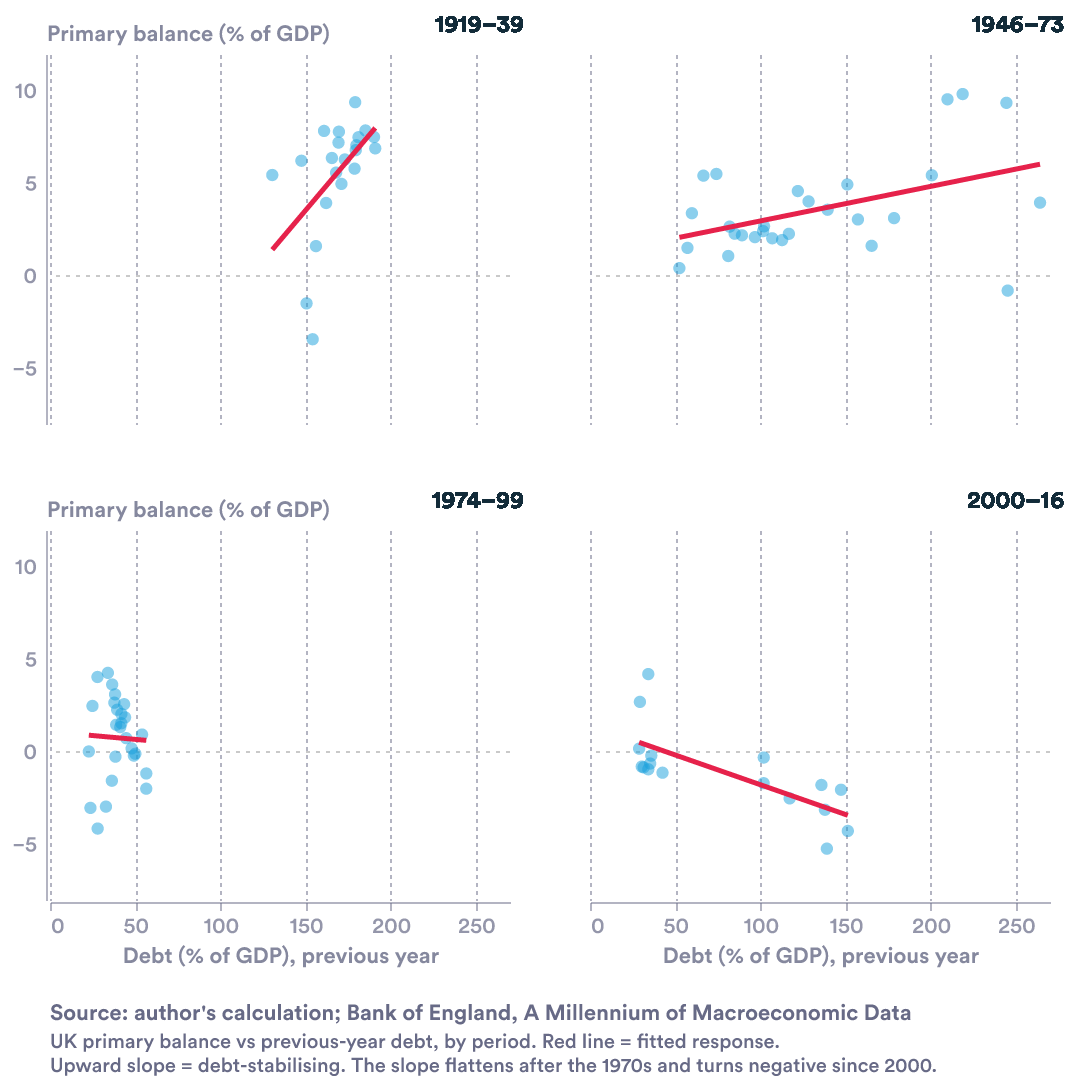
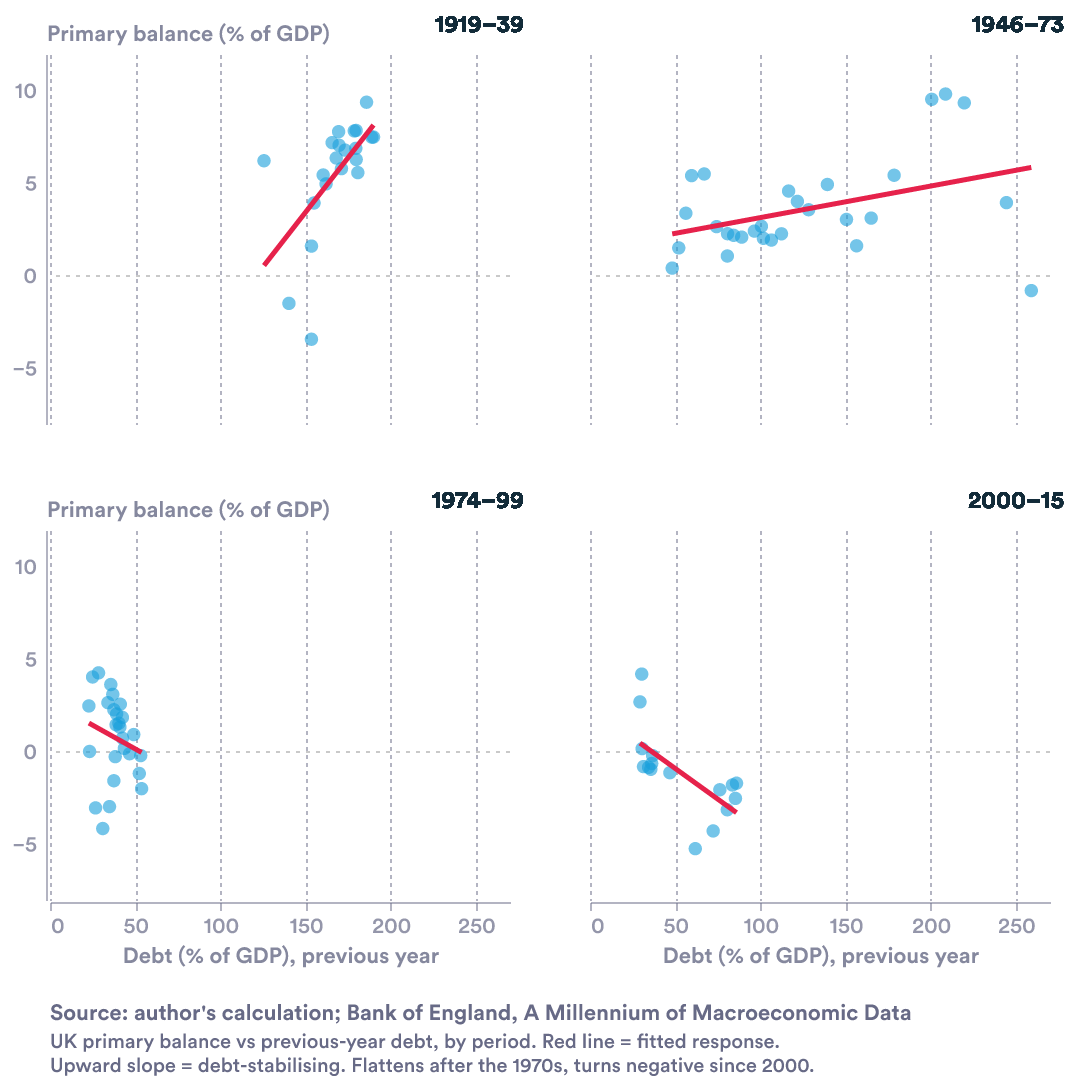
fixes

diff --git a/Debt 2026/Research/Charts/Charts/fiscal_reaction_scatter.html b/Debt 2026/Research/Charts/Charts/fiscal_reaction_scatter.html
@@ -1,0 +1,42 @@
+<!DOCTYPE html>
+<html>
+<head>
+  <meta charset="UTF-8">
+  <style>
+    #vis.vega-embed {
+      width: 100%;
+      display: flex;
+    }
+
+    #vis.vega-embed details,
+    #vis.vega-embed details summary {
+      position: relative;
+    }
+  </style>
+  <script type="text/javascript" src="https://cdn.jsdelivr.net/npm/vega@6"></script>
+  <script type="text/javascript" src="https://cdn.jsdelivr.net/npm/vega-lite@6.4.1"></script>
+  <script type="text/javascript" src="https://cdn.jsdelivr.net/npm/vega-embed@7"></script>
+</head>
+<body>
+  <div id="vis"></div>
+  <script>
+    (function(vegaEmbed) {
+      var spec = {"config": {"font": "Circular Std", "text": {"color": "#676A86", "align": "left", "baseline": "middle", "dx": 7, "dy": 0, "fontSize": 11}, "view": {"stroke": "transparent", "continuousWidth": 400, "continuousHeight": 300, "discreteWidth": 400, "discreteHeight": 300, "fill": "transparent"}, "range": {"category": ["#36B7B4", "#E6224B", "#F4C245", "#0063AF", "#00A767", "#179FDB", "#EB5C2E"], "diverging": ["#E6224B", "#E54753", "#C9C9C9", "#179FDB", "#122B39"], "heatmap": ["#C9C9C9", "#179FDB", "#0063AF", "#122B39"], "ordinal": ["#00A767", "#36B7B4", "#179FDB", "#0063AF", "#243B5A"]}, "bar": {"color": "#179fdb"}, "line": {"color": "#e6224b"}, "rule": {"color": "#676A86"}, "area": {"opacity": 0.3}, "point": {"filled": true, "size": 80, "color": "#e6224b", "opacity": 0.95}, "geoshape": {"stroke": "white", "strokeWidth": 0.3}, "rect": {"fill": "#d6d4d4", "opacity": 0.3}, "axis": {"labelColor": "#676A86", "labelFontSize": 11, "labelFont": "Circular Std", "labelOpacity": 0.7, "tickColor": "#676A86", "tickOpacity": 0.5, "domainColor": "#676A86", "domainOpacity": 0.5, "gridColor": "#676A86", "gridDash": [2, 2], "gridOpacity": 0.5, "title": null, "titleColor": "#676A86", "titleOpacity": 0.8, "tickSize": 4}, "axisXDiscrete": {"grid": false, "labelAngle": 0, "tickCount": 10, "tickOpacity": 0.5, "title": null}, "axisYDiscrete": {"ticks": false, "labelPadding": 5}, "axisXTemporal": {"grid": false, "ticks": true}, "axisXQuantitative": {"grid": true}, "axisYQuantitative": {"gridColor": "#676A86", "gridDash": [1, 5], "gridOpacity": 0.5, "ticks": false, "labelPadding": 5, "tickCount": 8, "titleAngle": 0, "titleAlign": "left", "titleBaseline": "bottom", "titleX": 0, "titleY": -5}, "title": {"color": "#676A86E6", "subtitleColor": "#676A86", "font": "Circular Std", "subtitleFont": "Circular Std", "anchor": "start", "fontSize": 14, "subtitleFontSize": 12, "subtitlePadding": 4, "offset": 0, "frame": "group"}, "legend": {"titleColor": "#122b39", "title": null, "labelColor": "#122b39", "labelFontSize": 11}, "axisY": {"titleAlign": "left", "titleAngle": 0, "titleX": 0, "titleY": -8}, "background": "white", "header": {"labelFontSize": 0, "labelPadding": 0, "title": null}}, "data": {"name": "data-59675f8f8544f754f55803a47b0bdc05"}, "facet": {"field": "era", "sort": ["1919\u201339", "1946\u201373", "1974\u201399", "2000\u201315"], "title": null, "type": "nominal"}, "spec": {"layer": [{"mark": {"type": "rule", "color": "#c9c9c9", "strokeDash": [2, 3]}, "encoding": {"y": {"datum": 0}}}, {"mark": {"type": "point", "color": "#179FDB", "filled": true, "opacity": 0.6, "size": 45}, "encoding": {"tooltip": [{"field": "year", "title": "Year", "type": "ordinal"}, {"field": "debt_lag", "format": ".1f", "title": "Debt (prev yr, % GDP)", "type": "quantitative"}, {"field": "pb", "format": ".1f", "title": "Primary balance (% GDP)", "type": "quantitative"}], "x": {"axis": {"grid": true, "tickCount": 5}, "field": "debt_lag", "scale": {"domain": [0, 270]}, "title": "Debt (% of GDP), previous year", "type": "quantitative"}, "y": {"axis": {"grid": false, "tickCount": 5}, "field": "pb", "scale": {"domain": [-8, 11]}, "title": "Primary balance (% of GDP)", "type": "quantitative"}}}, {"mark": {"type": "line", "color": "#E6224B", "strokeWidth": 2.5}, "encoding": {"x": {"axis": {"grid": true, "tickCount": 5}, "field": "debt_lag", "scale": {"domain": [0, 270]}, "title": "Debt (% of GDP), previous year", "type": "quantitative"}, "y": {"axis": {"grid": false, "tickCount": 5}, "field": "pb", "scale": {"domain": [-8, 11]}, "title": "Primary balance (% of GDP)", "type": "quantitative"}}, "transform": [{"on": "debt_lag", "regression": "pb"}]}, {"mark": {"type": "text", "align": "right", "baseline": "bottom", "color": "#122b39", "fontSize": 12, "fontWeight": "bold"}, "encoding": {"text": {"field": "era", "type": "nominal"}, "x": {"value": 230}, "y": {"value": -8}}}], "height": 185, "width": 230}, "columns": 2, "resolve": {"scale": {"x": "shared", "y": "shared"}}, "spacing": {"row": 30, "column": 30}, "title": {"text": "Source: author's calculation; Bank of England, A Millennium of Macroeconomic Data", "anchor": "start", "color": "#676A86", "dy": 14, "fontSize": 11, "orient": "bottom", "subtitle": ["UK primary balance vs previous-year debt, by period. Red line = fitted response.", "Upward slope = debt-stabilising. Flattens after the 1970s, turns negative since 2000."], "subtitleColor": "#676A86", "subtitleFontSize": 10}, "$schema": "https://vega.github.io/schema/vega-lite/v6.4.1.json", "datasets": {"data-59675f8f8544f754f55803a47b0bdc05": [{"year": 1919, "psurp": -79, "gdp": 5337.207075056073, "debt": 125.60502356555172, "pb": -1.480174909630427, "debt_lag": 140.24769625397343, "war": 0, "era": "1919\u201339"}, {"year": 1920, "psurp": 364, "gdp": 5842.72298267445, "debt": 160.3529395211204, "pb": 6.229971899735396, "debt_lag": 125.60502356555172, "war": 0, "era": "1919\u201339"}, {"year": 1921, "psurp": 262, "gdp": 4799.506652627547, "debt": 178.5996203322544, "pb": 5.458894402335393, "debt_lag": 160.3529395211204, "war": 0, "era": "1919\u201339"}, {"year": 1922, "psurp": 342, "gdp": 4361.473437350434, "debt": 185.7908443287234, "pb": 7.841386744929086, "debt_lag": 178.5996203322544, "war": 0, "era": "1919\u201339"}, {"year": 1923, "psurp": 391, "gdp": 4162.624389776968, "debt": 179.70363713045626, "pb": 9.39311269496861, "debt_lag": 185.7908443287234, "war": 0, "era": "1919\u201339"}, {"year": 1924, "psurp": 336, "gdp": 4271.644204077724, "debt": 173.25849664966302, "pb": 7.865823648871633, "debt_lag": 179.70363713045626, "war": 0, "era": "1919\u201339"}, {"year": 1925, "psurp": 300, "gdp": 4410.6062027376265, "debt": 179.7327445505008, "pb": 6.801786108535206, "debt_lag": 173.25849664966302, "war": 0, "era": "1919\u201339"}, {"year": 1926, "psurp": 268, "gdp": 4255.178998755622, "debt": 169.69727569208013, "pb": 6.298207433303594, "debt_lag": 179.7327445505008, "war": 0, "era": "1919\u201339"}, {"year": 1927, "psurp": 318, "gdp": 4500.028046329088, "debt": 169.400771084607, "pb": 7.066622623816967, "debt_lag": 169.69727569208013, "war": 0, "era": "1919\u201339"}, {"year": 1928, "psurp": 351, "gdp": 4500.230401072076, "debt": 165.60545552732475, "pb": 7.79960065858811, "debt_lag": 169.400771084607, "war": 0, "era": "1919\u201339"}, {"year": 1929, "psurp": 331, "gdp": 4590.65492485881, "debt": 168.00488585607508, "pb": 7.21030017324119, "debt_lag": 165.60545552732475, "war": 0, "era": "1919\u201339"}, {"year": 1930, "psurp": 288, "gdp": 4515.478797740977, "debt": 180.68445906579169, "pb": 6.378061173581013, "debt_lag": 168.00488585607508, "war": 0, "era": "1919\u201339"}, {"year": 1931, "psurp": 236, "gdp": 4223.786062984587, "debt": 188.9074335287239, "pb": 5.5874042027886, "debt_lag": 180.68445906579169, "war": 0, "era": "1919\u201339"}, {"year": 1932, "psurp": 310, "gdp": 4132.59280176127, "debt": 189.8929181741884, "pb": 7.501343947264321, "debt_lag": 188.9074335287239, "war": 0, "era": "1919\u201339"}, {"year": 1933, "psurp": 316, "gdp": 4206.436488944193, "debt": 179.48680444965146, "pb": 7.512296948510813, "debt_lag": 189.8929181741884, "war": 0, "era": "1919\u201339"}, {"year": 1934, "psurp": 305, "gdp": 4420.603522542355, "debt": 171.07480516666402, "pb": 6.899510404963663, "debt_lag": 179.48680444965146, "war": 0, "era": "1919\u201339"}, {"year": 1935, "psurp": 268, "gdp": 4618.915095242652, "debt": 162.02646179309474, "pb": 5.802228325782222, "debt_lag": 171.07480516666402, "war": 0, "era": "1919\u201339"}, {"year": 1936, "psurp": 243, "gdp": 4880.576241983343, "debt": 154.96659292250422, "pb": 4.978920273997215, "debt_lag": 162.02646179309474, "war": 0, "era": "1919\u201339"}, {"year": 1937, "psurp": 206, "gdp": 5219.979898535463, "debt": 153.48454437573693, "pb": 3.946375350177041, "debt_lag": 154.96659292250422, "war": 0, "era": "1919\u201339"}, {"year": 1938, "psurp": 87, "gdp": 5383.652818991096, "debt": 153.4612496197333, "pb": 1.616003165975029, "debt_lag": 153.48454437573693, "war": 0, "era": "1919\u201339"}, {"year": 1939, "psurp": -198, "gdp": 5791.478319134677, "debt": 155.5567938217336, "pb": -3.4188162173692436, "debt_lag": 153.4612496197333, "war": 1, "era": "1919\u201339"}, {"year": 1946, "psurp": -77, "gdp": 9756.250981142912, "debt": 244.4243472346197, "pb": -0.7892375887913015, "debt_lag": 259.0280328872755, "war": 0, "era": "1946\u201373"}, {"year": 1947, "psurp": 418, "gdp": 10544.029386426726, "debt": 219.68763491926433, "pb": 3.9643288602561104, "debt_lag": 244.4243472346197, "war": 0, "era": "1946\u201373"}, {"year": 1948, "psurp": 1084, "gdp": 11581.0, "debt": 208.68346431175564, "pb": 9.360158880925654, "debt_lag": 219.68763491926433, "war": 0, "era": "1946\u201373"}, {"year": 1949, "psurp": 1214, "gdp": 12343.0, "debt": 200.58939628482972, "pb": 9.835534310945476, "debt_lag": 208.68346431175564, "war": 0, "era": "1946\u201373"}, {"year": 1950, "psurp": 1234, "gdp": 12920.0, "debt": 178.51288944030878, "pb": 9.551083591331269, "debt_lag": 200.58939628482972, "war": 0, "era": "1946\u201373"}, {"year": 1951, "psurp": 790, "gdp": 14508.0, "debt": 165.05488926962371, "pb": 5.445271574303832, "debt_lag": 178.51288944030878, "war": 0, "era": "1946\u201373"}, {"year": 1952, "psurp": 493, "gdp": 15759.0, "debt": 156.4810980299355, "pb": 3.128371089536138, "debt_lag": 165.05488926962371, "war": 0, "era": "1946\u201373"}, {"year": 1953, "psurp": 276, "gdp": 16903.0, "debt": 150.54253350529916, "pb": 1.6328462403123707, "debt_lag": 156.4810980299355, "war": 0, "era": "1946\u201373"}, {"year": 1954, "psurp": 545, "gdp": 17833.0, "debt": 139.32716113059624, "pb": 3.056131890315706, "debt_lag": 150.54253350529916, "war": 0, "era": "1946\u201373"}, {"year": 1955, "psurp": 959, "gdp": 19388.0, "debt": 128.3286623598708, "pb": 4.9463585723127705, "debt_lag": 139.32716113059624, "war": 0, "era": "1946\u201373"}, {"year": 1956, "psurp": 754, "gdp": 21052.0, "debt": 121.73990951037048, "pb": 3.5816074482234463, "debt_lag": 128.3286623598708, "war": 0, "era": "1946\u201373"}, {"year": 1957, "psurp": 900, "gdp": 22323.0, "debt": 116.5785434078117, "pb": 4.0317161671818305, "debt_lag": 121.73990951037048, "war": 0, "era": "1946\u201373"}, {"year": 1958, "psurp": 1077, "gdp": 23452.0, "debt": 112.386673171525, "pb": 4.592358860651544, "debt_lag": 116.5785434078117, "war": 0, "era": "1946\u201373"}, {"year": 1959, "psurp": 561, "gdp": 24597.0, "debt": 106.47527638951992, "pb": 2.280765947066715, "debt_lag": 112.386673171525, "war": 0, "era": "1946\u201373"}, {"year": 1960, "psurp": 513, "gdp": 26412.0, "debt": 101.77954326837435, "pb": 1.9422989550204453, "debt_lag": 106.47527638951992, "war": 0, "era": "1946\u201373"}, {"year": 1961, "psurp": 572, "gdp": 28069.0, "debt": 100.61448900388098, "pb": 2.037835334354626, "debt_lag": 101.77954326837435, "war": 0, "era": "1946\u201373"}, {"year": 1962, "psurp": 789, "gdp": 29374.0, "debt": 96.48563834897053, "pb": 2.686048886770614, "debt_lag": 100.61448900388098, "war": 0, "era": "1946\u201373"}, {"year": 1963, "psurp": 758, "gdp": 31229.0, "debt": 89.04166788759633, "pb": 2.4272310992987287, "debt_lag": 96.48563834897053, "war": 0, "era": "1946\u201373"}, {"year": 1964, "psurp": 717, "gdp": 34127.0, "debt": 84.31149406600552, "pb": 2.1009757669880154, "debt_lag": 89.04166788759633, "war": 0, "era": "1946\u201373"}, {"year": 1965, "psurp": 812, "gdp": 36906.0, "debt": 80.72635263678563, "pb": 2.200184251883163, "debt_lag": 84.31149406600552, "war": 0, "era": "1946\u201373"}, {"year": 1966, "psurp": 901, "gdp": 39423.0, "debt": 80.62212423312883, "pb": 2.2854678740836567, "debt_lag": 80.72635263678563, "war": 0, "era": "1946\u201373"}, {"year": 1967, "psurp": 451, "gdp": 41728.0, "debt": 74.30090156956057, "pb": 1.0808090490797546, "debt_lag": 80.62212423312883, "war": 0, "era": "1946\u201373"}, {"year": 1968, "psurp": 1222, "gdp": 45809.0, "debt": 67.03685439394549, "pb": 2.6675980702482045, "debt_lag": 74.30090156956057, "war": 0, "era": "1946\u201373"}, {"year": 1969, "psurp": 2740, "gdp": 49682.0, "debt": 59.64527147864654, "pb": 5.515075882613421, "debt_lag": 67.03685439394549, "war": 0, "era": "1946\u201373"}, {"year": 1970, "psurp": 3033, "gdp": 55916.0, "debt": 56.2587803320562, "pb": 5.424207740181701, "debt_lag": 59.64527147864654, "war": 0, "era": "1946\u201373"}, {"year": 1971, "psurp": 2125, "gdp": 62640.0, "debt": 52.092667662328424, "pb": 3.3924010217113665, "debt_lag": 56.2587803320562, "war": 0, "era": "1946\u201373"}, {"year": 1972, "psurp": 1068, "gdp": 70305.0, "debt": 48.25880417837897, "pb": 1.5190953701728185, "debt_lag": 52.092667662328424, "war": 0, "era": "1946\u201373"}, {"year": 1973, "psurp": 347, "gdp": 81467.0, "debt": 53.24335606709532, "pb": 0.4259393374004198, "debt_lag": 48.25880417837897, "war": 0, "era": "1946\u201373"}, {"year": 1974, "psurp": -179, "gdp": 92227.0, "debt": 53.76131690835596, "pb": -0.1940863304672167, "debt_lag": 53.24335606709532, "war": 0, "era": "1974\u201399"}, {"year": 1975, "psurp": -2272, "gdp": 114541.0, "debt": 52.40871838557119, "pb": -1.983569202294375, "debt_lag": 53.76131690835596, "war": 0, "era": "1974\u201399"}, {"year": 1976, "psurp": -1581, "gdp": 136172.0, "debt": 49.153892660562015, "pb": -1.1610316364597717, "debt_lag": 52.40871838557119, "war": 0, "era": "1974\u201399"}, {"year": 1977, "psurp": 1497, "gdp": 158786.0, "debt": 46.69724324061204, "pb": 0.9427783305833008, "debt_lag": 49.153892660562015, "war": 0, "era": "1974\u201399"}, {"year": 1978, "psurp": -174, "gdp": 184891.0, "debt": 43.63075528673386, "pb": -0.0941095023554418, "debt_lag": 46.69724324061204, "war": 0, "era": "1974\u201399"}, {"year": 1979, "psurp": 427, "gdp": 219559.0, "debt": 42.53853357635705, "pb": 0.1944807546035462, "debt_lag": 43.63075528673386, "war": 0, "era": "1974\u201399"}, {"year": 1980, "psurp": 1931, "gdp": 258411.0, "debt": 42.50755601875977, "pb": 0.7472592111016946, "debt_lag": 42.53853357635705, "war": 0, "era": "1974\u201399"}, {"year": 1981, "psurp": 5382, "gdp": 287850.0, "debt": 41.272521455771745, "pb": 1.869723814486712, "debt_lag": 42.50755601875977, "war": 0, "era": "1974\u201399"}, {"year": 1982, "psurp": 8181, "gdp": 316698.0, "debt": 40.43823557279568, "pb": 2.583218081579296, "debt_lag": 41.272521455771745, "war": 0, "era": "1974\u201399"}, {"year": 1983, "psurp": 5414, "gdp": 348283.0, "debt": 41.02798410825186, "pb": 1.5544829922792671, "debt_lag": 40.43823557279568, "war": 0, "era": "1974\u201399"}, {"year": 1984, "psurp": 5038, "gdp": 374534.0, "debt": 39.09110210618267, "pb": 1.3451382251010588, "debt_lag": 41.02798410825186, "war": 0, "era": "1974\u201399"}, {"year": 1985, "psurp": 8473, "gdp": 412120.0, "debt": 37.48161735726849, "pb": 2.0559545763369895, "debt_lag": 39.09110210618267, "war": 0, "era": "1974\u201399"}, {"year": 1986, "psurp": 10145, "gdp": 444033.0, "debt": 33.99555451805089, "pb": 2.2847400981458583, "debt_lag": 37.48161735726849, "war": 0, "era": "1974\u201399"}, {"year": 1987, "psurp": 13134, "gdp": 492635.0, "debt": 28.48140958367545, "pb": 2.666071229206207, "debt_lag": 33.99555451805089, "war": 0, "era": "1974\u201399"}, {"year": 1988, "psurp": 23596, "gdp": 551709.0, "debt": 25.00094343647145, "pb": 4.276892347233777, "debt_lag": 28.48140958367545, "war": 0, "era": "1974\u201399"}, {"year": 1989, "psurp": 24714, "gdp": 609474.0, "debt": 22.820660782982575, "pb": 4.054971992242491, "debt_lag": 25.00094343647145, "war": 0, "era": "1974\u201399"}, {"year": 1990, "psurp": 16499, "gdp": 662850.0, "debt": 23.21854254352915, "pb": 2.4891000980614013, "debt_lag": 22.820660782982575, "war": 0, "era": "1974\u201399"}, {"year": 1991, "psurp": 196, "gdp": 698038.0, "debt": 26.73114374623152, "pb": 0.028078700586501, "debt_lag": 23.21854254352915, "war": 0, "era": "1974\u201399"}, {"year": 1992, "psurp": -21802, "gdp": 721445.0, "debt": 30.97126357217729, "pb": -3.0219905883331366, "debt_lag": 26.73114374623152, "war": 0, "era": "1974\u201399"}, {"year": 1993, "psurp": -31378, "gdp": 758445.0, "debt": 34.927134770564855, "pb": -4.137149035197015, "debt_lag": 30.97126357217729, "war": 0, "era": "1974\u201399"}, {"year": 1994, "psurp": -23535, "gdp": 797088.0, "debt": 37.48299758798823, "pb": -2.9526225460676865, "debt_lag": 34.927134770564855, "war": 0, "era": "1974\u201399"}, {"year": 1995, "psurp": -13001, "gdp": 836646.0, "debt": 38.290962033822375, "pb": -1.5539427667137595, "debt_lag": 37.48299758798823, "war": 0, "era": "1974\u201399"}, {"year": 1996, "psurp": -2256, "gdp": 892900.0, "debt": 38.77063018250955, "pb": -0.2526598723261283, "debt_lag": 38.290962033822375, "war": 0, "era": "1974\u201399"}, {"year": 1997, "psurp": 13819, "gdp": 938855.0, "debt": 36.845562823112736, "pb": 1.4718992815717016, "debt_lag": 38.77063018250955, "war": 0, "era": "1974\u201399"}, {"year": 1998, "psurp": 30545, "gdp": 980308.0, "debt": 35.68333488378925, "pb": 3.1158574652048134, "debt_lag": 36.845562823112736, "war": 0, "era": "1974\u201399"}, {"year": 1999, "psurp": 37248, "gdp": 1021205.0, "debt": 30.364625304039457, "pb": 3.647455701842432, "debt_lag": 35.68333488378925, "war": 0, "era": "1974\u201399"}, {"year": 2000, "psurp": 45524, "gdp": 1080863.0, "debt": 29.342078843450903, "pb": 4.211819629314723, "debt_lag": 30.364625304039457, "war": 0, "era": "2000\u201315"}, {"year": 2001, "psurp": 30347, "gdp": 1120575.0, "debt": 30.5973127577491, "pb": 2.7081632197755616, "debt_lag": 29.342078843450903, "war": 0, "era": "2000\u201315"}, {"year": 2002, "psurp": 2139, "gdp": 1172652.0, "debt": 31.40571564708089, "pb": 0.1824070568250427, "debt_lag": 30.5973127577491, "war": 0, "era": "2000\u201315"}, {"year": 2003, "psurp": -9822, "gdp": 1242449.0, "debt": 34.386461834629245, "pb": -0.7905354666469208, "debt_lag": 31.40571564708089, "war": 0, "era": "2000\u201315"}, {"year": 2004, "psurp": -10827, "gdp": 1304874.0, "debt": 35.68070624890809, "pb": -0.8297352847861172, "debt_lag": 34.386461834629245, "war": 0, "era": "2000\u201315"}, {"year": 2005, "psurp": -12904, "gdp": 1379457.0, "debt": 36.22451643396325, "pb": -0.9354405392846604, "debt_lag": 35.68070624890809, "war": 0, "era": "2000\u201315"}, {"year": 2006, "psurp": -9076, "gdp": 1455644.0, "debt": 36.743332309963485, "pb": -0.6235040985295855, "debt_lag": 36.22451643396325, "war": 0, "era": "2000\u201315"}, {"year": 2007, "psurp": -2997, "gdp": 1530890.0, "debt": 46.878635923112135, "pb": -0.1957684745474854, "debt_lag": 36.743332309963485, "war": 0, "era": "2000\u201315"}, {"year": 2008, "psurp": -17512, "gdp": 1564252.0, "debt": 61.79172981962659, "pb": -1.119512712785408, "debt_lag": 46.878635923112135, "war": 0, "era": "2000\u201315"}, {"year": 2009, "psurp": -79388, "gdp": 1519459.0, "debt": 72.30169183033492, "pb": -5.224754336905438, "debt_lag": 61.79172981962659, "war": 0, "era": "2000\u201315"}, {"year": 2010, "psurp": -67108, "gdp": 1572439.0, "debt": 76.19724935729491, "pb": -4.267764918066774, "debt_lag": 72.30169183033492, "war": 0, "era": "2000\u201315"}, {"year": 2011, "psurp": -33236, "gdp": 1628274.0, "debt": 80.57698782837943, "pb": -2.0411798014339113, "debt_lag": 76.19724935729491, "war": 0, "era": "2000\u201315"}, {"year": 2012, "psurp": -52298, "gdp": 1675044.0, "debt": 83.5842105172391, "pb": -3.1221866410673393, "debt_lag": 80.57698782837943, "war": 0, "era": "2000\u201315"}, {"year": 2013, "psurp": -31006, "gdp": 1739563.0, "debt": 85.37816601553926, "pb": -1.782401672144096, "debt_lag": 83.5842105172391, "war": 0, "era": "2000\u201315"}, {"year": 2014, "psurp": -45709, "gdp": 1822480.0, "debt": 85.99818231721449, "pb": -2.5080659321364296, "debt_lag": 85.37816601553926, "war": 0, "era": "2000\u201315"}, {"year": 2015, "psurp": -31575, "gdp": 1872714.0, "debt": 87.73806645264037, "pb": -1.6860556390351116, "debt_lag": 85.99818231721449, "war": 0, "era": "2000\u201315"}]}};
+      var embedOpt = {"mode": "vega-lite"};
+
+      function showError(el, error){
+          el.innerHTML = ('<div style="color:red;">'
+                          + '<p>JavaScript Error: ' + error.message + '</p>'
+                          + "<p>This usually means there's a typo in your chart specification. "
+                          + "See the javascript console for the full traceback.</p>"
+                          + '</div>');
+          throw error;
+      }
+      const el = document.getElementById('vis');
+      vegaEmbed("#vis", spec, embedOpt)
+        .catch(error => showError(el, error));
+    })(vegaEmbed);
+
+  </script>
+</body>
+</html>
